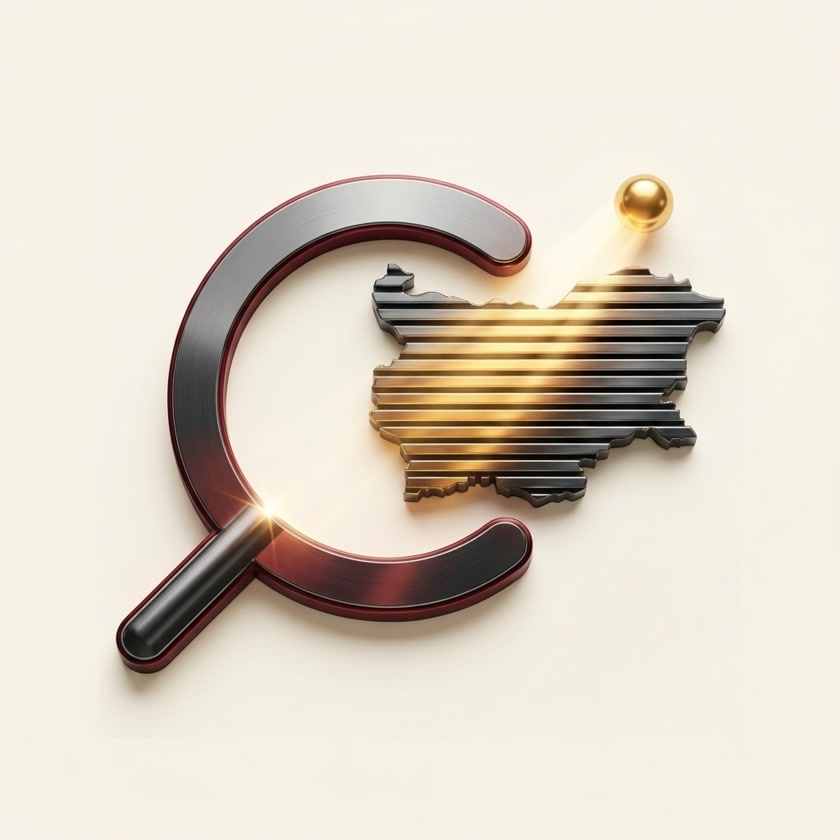
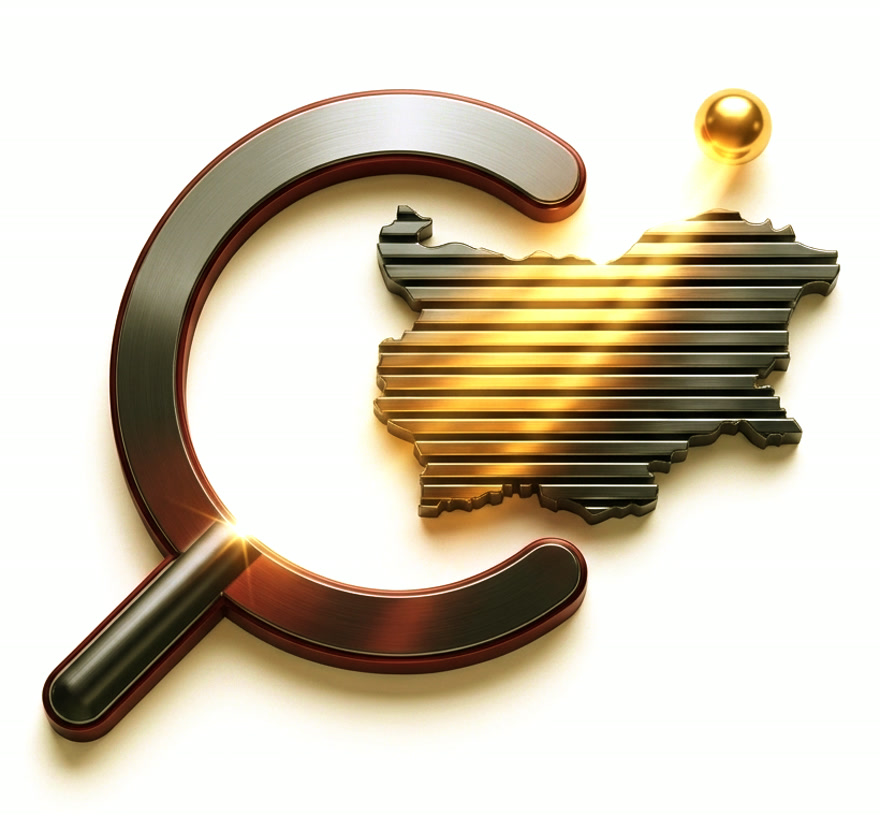
fix(hero): pure #FFFFFF white-level normalization (zero yellow halo) and enlarge hero emblem to 490px

diff --git a/docs/index.html b/docs/index.html
@@ -6,7 +6,7 @@
         window.location.replace('https://nasvetlo.website' + p + window.location.search + window.location.hash);
       }
     })();
-  </script><link rel="preconnect" href="https://fonts.googleapis.com"><link rel="preconnect" href="https://fonts.gstatic.com" crossorigin><link href="https://fonts.googleapis.com/css2?family=IBM+Plex+Mono:wght@400;500;600;700&family=IBM+Plex+Sans:wght@400;500;600;700&family=Newsreader:ital,wght@0,600;0,700;1,600&display=swap" rel="stylesheet"><link rel="stylesheet" href="sigma3/styles.css?v=20261120g"></head> <body> <header class="topbar"> <div class="topbar-inner"> <div class="topbar-left"> <a href="#top" class="brand-logo" aria-label="NAsvetlo — Граждански одит · CC-BY 4.0"> <img src="/logo-icon.png" alt="" aria-hidden="true" width="38" height="38" class="brand-logo-icon"> <div class="brand-logo-text"> <span class="brand-logo-name">NAsvetlo</span> <span class="brand-logo-meta">Граждански одит · CC-BY 4.0</span> </div> </a> </div> <div class="topbar-center"> <button type="button" class="btn-cmd-center" id="openCmdPaletteBtn" title="Бързо глобално търсене (Ctrl+K)"> <span class="cmd-search-icon" aria-hidden="true">⌕</span> <span class="cmd-search-label">Търсене (22 343)</span> <kbd>Ctrl K</kbd> </button> </div> <div class="topbar-right"> <button type="button" class="btn topbar-btn-ai" id="quickOpenOracleBtn">AI Асистент</button> <button type="button" class="btn topbar-btn" id="densityToggleBtn" title="Превключи между компактен одиторски изглед и презентационен изглед">Одиторски изглед</button> <button type="button" class="btn topbar-btn" id="themeToggleBtn" title="Смени светъл / тъмен режим">Тъмен режим</button> </div> </div> </header> <div class="info-subbar"> <div class="info-subbar-inner"> <div class="info-subbar-meta"> <span class="civic-positioning-tag">Независима гражданска платформа върху отворените данни (CC-BY 4.0) на МИДТ / СИГМА 2.0</span> <span class="info-subbar-sep" aria-hidden="true">·</span> <a class="info-subbar-sync" id="syncSubtitle" href="data/sigma3_judicial_6.json" target="_blank" rel="noopener" title="Преглед на актуалния JSON лог на последната синхронизация">Синхронизация: 2026-11-20</a> </div> <div class="info-subbar-links"> <button type="button" class="subbar-link-btn" id="quickOpenProposalBtn">Архитектура &amp; Методология</button> <a class="subbar-link" href="data/SIGMA_2_0_ALL_OFFICIALS_571.csv" download>CSV</a> <a class="subbar-link" href="https://sigma.midt.bg" target="_blank" rel="noopener">СИГМА 2.0 ↗</a> </div> </div> </div> <main class="container">  <!-- EXECUTIVE SOVEREIGN HERO (SIGMA.MIDT.BG SWISS EDITORIAL ARCHITECTURE) --><section class="hero" id="top"> <div class="hero-top-split hero-section"> <div class="hero-editorial-col"> <div class="hero-kicker">Публичен финансов и съдебен одит · 2020–2026 г.</div> <h1>Къде отиват <em>€53,22 млрд.</em> от обществените поръчки в България?</h1> <p class="hero-lead">
+  </script><link rel="preconnect" href="https://fonts.googleapis.com"><link rel="preconnect" href="https://fonts.gstatic.com" crossorigin><link href="https://fonts.googleapis.com/css2?family=IBM+Plex+Mono:wght@400;500;600;700&family=IBM+Plex+Sans:wght@400;500;600;700&family=Newsreader:ital,wght@0,600;0,700;1,600&display=swap" rel="stylesheet"><link rel="stylesheet" href="sigma3/styles.css?v=20261120h"></head> <body> <header class="topbar"> <div class="topbar-inner"> <div class="topbar-left"> <a href="#top" class="brand-logo" aria-label="NAsvetlo — Граждански одит · CC-BY 4.0"> <img src="/logo-icon.png" alt="" aria-hidden="true" width="38" height="38" class="brand-logo-icon"> <div class="brand-logo-text"> <span class="brand-logo-name">NAsvetlo</span> <span class="brand-logo-meta">Граждански одит · CC-BY 4.0</span> </div> </a> </div> <div class="topbar-center"> <button type="button" class="btn-cmd-center" id="openCmdPaletteBtn" title="Бързо глобално търсене (Ctrl+K)"> <span class="cmd-search-icon" aria-hidden="true">⌕</span> <span class="cmd-search-label">Търсене (22 343)</span> <kbd>Ctrl K</kbd> </button> </div> <div class="topbar-right"> <button type="button" class="btn topbar-btn-ai" id="quickOpenOracleBtn">AI Асистент</button> <button type="button" class="btn topbar-btn" id="densityToggleBtn" title="Превключи между компактен одиторски изглед и презентационен изглед">Одиторски изглед</button> <button type="button" class="btn topbar-btn" id="themeToggleBtn" title="Смени светъл / тъмен режим">Тъмен режим</button> </div> </div> </header> <div class="info-subbar"> <div class="info-subbar-inner"> <div class="info-subbar-meta"> <span class="civic-positioning-tag">Независима гражданска платформа върху отворените данни (CC-BY 4.0) на МИДТ / СИГМА 2.0</span> <span class="info-subbar-sep" aria-hidden="true">·</span> <a class="info-subbar-sync" id="syncSubtitle" href="data/sigma3_judicial_6.json" target="_blank" rel="noopener" title="Преглед на актуалния JSON лог на последната синхронизация">Синхронизация: 2026-11-20</a> </div> <div class="info-subbar-links"> <button type="button" class="subbar-link-btn" id="quickOpenProposalBtn">Архитектура &amp; Методология</button> <a class="subbar-link" href="data/SIGMA_2_0_ALL_OFFICIALS_571.csv" download>CSV</a> <a class="subbar-link" href="https://sigma.midt.bg" target="_blank" rel="noopener">СИГМА 2.0 ↗</a> </div> </div> </div> <main class="container">  <!-- EXECUTIVE SOVEREIGN HERO (SIGMA.MIDT.BG SWISS EDITORIAL ARCHITECTURE) --><section class="hero" id="top"> <div class="hero-top-split hero-section"> <div class="hero-editorial-col"> <div class="hero-kicker">Публичен финансов и съдебен одит · 2020–2026 г.</div> <h1>Къде отиват <em>€53,22 млрд.</em> от обществените поръчки в България?</h1> <p class="hero-lead">
 Проследете как държавните институции и общините разходват публичния ресурс във всички сектори — с пълно разбиване на <strong>3 427 ДЗЗД консорциума (+€1,92 млрд.)</strong>, <strong>3 035 декларации пред Сметната палата</strong>, <strong>+€1,29 млрд. анекси</strong> и живи съдебни актове от <strong>ЕПЕП, ВАС, АДФИ и КЗК</strong>. Зад всяко число стои конкретен договор или съдебен акт.
 </p> <div class="hero-search-box"> <div class="hero-search-row"> <span class="smart-search-prompt" aria-hidden="true">›</span> <input id="heroSearchInput" type="search" aria-label="Глобална проверка" placeholder="Институция, компания, ЕИК, политик, ДЗЗД или град (напр. Бургас, АПИ, 103267194)…"> <button class="btn btn-dark" id="heroSearchBtn" type="button">Намери</button> <button class="btn btn-oracle-solid" id="heroAskOracleBtn" type="button">Питай AI</button> </div> <div class="quick-cities"> <span>Бърз срез:</span> <button class="city-chip" data-quick="Благоевград">Благоевград</button> <button class="city-chip" data-quick="Хасково">Хасково</button> <button class="city-chip" data-quick="Бургас">Бургас</button> <button class="city-chip" data-quick="Варна">Варна</button> <button class="city-chip" data-quick="Пловдив">Пловдив</button> <button class="city-chip" data-quick="Стара Загора">Стара Загора</button> <button class="city-chip" data-quick="Народно събрание">Депутати (57)</button> <button class="city-chip" data-quick="ДАНС">ДАНС / ДАТО</button> <button class="city-chip chip-accent" data-jump-tab="atlas">Карта 28 области</button> <button class="city-chip chip-accent" data-jump-tab="forensics7">7 Кримин. радара</button> <button class="city-chip chip-accent" data-jump-tab="judicial6">Съдебен радар (АДФИ/КЗК)</button> </div> </div> </div> <div class="hero-emblem-stage" aria-hidden="true"> <div class="hero-emblem-visual" role="img" aria-label="NAsvetlo — Титаниево-червена лупа и златен прожектор върху картата на България"></div> </div> </div> <!-- 6-STAGE FORENSIC TOTALS STRIP (SIGMA.MIDT.BG EDITORIAL HAIRLINE GRID) --> <div class="funnel-box"> <div class="funnel-head"> <h2 class="funnel-title">Национална макрорамка и фуния на риска (клик върху показател за срез)</h2> <span class="meta-date" id="asOfChip">Данни към: 2026-11-20</span> </div> <div class="funnel-strip-grid"> <div class="funnel-step" data-jump-tab="authorities"> <div class="funnel-step-num" id="f1Val">€53,22 млрд.</div> <div> <div class="funnel-step-lbl">1. Всички поръчки (2020–2026)</div> <div class="funnel-step-sub" id="f1Sub">206 907 договора · 4 344 възложители · 17 428 фирми</div> </div> </div> <div class="funnel-step warn" data-jump-tab="cartels"> <div class="funnel-step-num" id="f2Val">€18,50 млрд.</div> <div> <div class="funnel-step-lbl">2. Една оферта / Пряко</div> <div class="funnel-step-sub" id="f2Sub">40,7% с 1 оферта · €5,92 млрд. неконкурентни</div> </div> </div> <div class="funnel-step" data-jump-filter="all"> <div class="funnel-step-num">571 лица</div> <div> <div class="funnel-step-lbl">3. Свързани лица (СИГМА)</div> <div class="funnel-step-sub">€180,8 млн. в мандата · €2,225 млрд. общо</div> </div> </div> <div class="funnel-step danger" data-jump-filter="own"> <div class="funnel-step-num">53 лица</div> <div> <div class="funnel-step-lbl">4. Самовъзлагане</div> <div class="funnel-step-sub">Договори от собствената институция</div> </div> </div> <div class="funnel-step plum" data-jump-tab="deep"> <div class="funnel-step-num" id="heroDeepNum">+€1,92 млрд.</div> <div> <div class="funnel-step-lbl">5. Скрити ДЗЗД + XML</div> <div class="funnel-step-sub" id="heroDeepSub">338 скрити ДЗЗД на 76 лица + 16 нови лица</div> </div> </div> <div class="funnel-step navy" data-jump-tab="cartels"> <div class="funnel-step-num" id="heroCartelNum">MAD 0,0122</div> <div> <div class="funnel-step-lbl">6. Картели и Бенфорд</div> <div class="funnel-step-sub" id="heroCartelSub">60 ДЗЗД двойки · Топ 1% държат 48,3% (Gini 0,91)</div> </div> </div> </div> </div> </section> <!-- PUBLIC AUDIT SESSION COUNTER + TOP 50 CONCENTRATION HIERARCHY TRIGGER --> <div class="hof-trigger-wrap"> <div class="truth-counter" id="truthCounter" aria-live="polite"> <span class="truth-live-dot" aria-hidden="true"></span> <div class="truth-counter-text"> <span class="truth-counter-label">ПУБЛИЧНИ ОДИТНИ СЕСИИ И ИНСПЕКЦИИ</span> <span class="truth-counter-sub">Верифицирани прегледи на националния регистър</span> </div> <span class="truth-counter-num" id="visitorCountVal">1 420</span> </div> <button type="button" class="hof-trigger" id="hofOpenBtn" aria-haspopup="dialog" aria-controls="hofModal"> <span class="hof-trigger-inner"> <span class="hof-trigger-left"> <span class="hof-trigger-badge">ТОП 50 · КОНЦЕНТРАЦИЯ</span> <span class="hof-trigger-label">ЙЕРАРХИЯ ПО ФИНАНСОВ ОБЕМ И РИСК</span> </span> <span class="hof-trigger-meta" id="hofTriggerTeaser">Топ 50 по официални данни на СИГМА 2.0 и скрити ДЗЗД консорциуми</span> <span class="hof-trigger-cta">ОТВОРИ &rarr;</span> </span> </button> </div> <!-- PRIMARY 12-MODULE NAVIGATION TABS --><nav class="tabs" id="mainTabs" role="tablist" aria-label="Аналитични модули на NAsvetlo"> <button class="tab-btn active" data-tab="dashboard">Команден пулт</button> <button class="tab-btn" data-tab="atlas">Атлас 28 области</button> <button class="tab-btn" data-tab="directory">Свързани лица (571)</button> <button class="tab-btn" data-tab="deep">Отвъд СИГМА 2.0 (ДЗЗД/XML)</button> <button class="tab-btn tab-btn-forensics" data-tab="forensics7">7 Криминалистични радара</button> <button class="tab-btn tab-btn-judicial" data-tab="judicial6">Съдебен радар (АОП × Съд)</button> <button class="tab-btn" data-tab="cartels">Картели, Бенфорд и HHI</button> <button class="tab-btn" data-tab="authorities">Институции (4 344)</button> <button class="tab-btn" data-tab="companies">Компании и ДЗЗД (17 428)</button> <button class="tab-btn" data-tab="graph">Мрежов граф (9 типа)</button> <button class="tab-btn tab-btn-oracle" data-tab="oracle">AI Асистент (ORACLE)</button> <button class="tab-btn tab-btn-proposal" data-tab="proposal">Архитектура &amp; Методология</button> </nav> <!-- =================================================================== --><!-- TAB 1: MACRO COMMAND DASHBOARD --><!-- =================================================================== --><section class="tab-panel active" id="tab-dashboard"> <!-- 83-Month Time Series + Annual Breakdown --> <div class="panel-box" style="margin-bottom:18px;"> <div class="chart-head"> <div> <h2 class="chart-title">Динамика на обществените поръчки в България (2020–2026 г.)</h2> <p class="chart-caption" style="margin-bottom:0;" id="trendsCaption">83 месечни периода от ЦАИС ЕОП · Общо €53,22 млрд. · Рекорден месец: февруари 2026 г. (€2,65 млрд.)</p> </div> <div class="pill-row" id="trendModePills"> <button class="pill active" data-trend-mode="months">Месечен пулс (83 мес.)</button> <button class="pill" data-trend-mode="years">Годишен сравнителен (7 г.)</button> </div> </div> <div id="trendChartHost" class="trend-chart-host"></div> <div class="trend-years-strip" id="trendYearsStrip"></div> </div> <!-- Interactive Top 20 Sankey Money Flows + CPV Sectors --> <div class="two-col-wide" style="margin-bottom:18px;"> <article class="panel-box"> <div class="chart-head"> <h3 style="margin:0;border:none;padding:0;">Парични потоци: Топ 20 двойки Институция &rarr; Изпълнител</h3> <span class="meta-date">Посочи поток · Клик за детайли</span> </div> <p class="chart-caption">Интерактивна диаграма на договорните потоци по реалните данни от ЦАИС ЕОП. Акцентните ленти маркират консорциуми (ДЗЗД).</p> <div class="sankey-wrap" id="sankeyHost"></div> <div class="sankey-readout" id="sankeyReadout">Посочете поток или институция, за да видите точната сума и брой договори.</div> </article> <article class="panel-box"> <div class="chart-head"> <h3 style="margin:0;border:none;padding:0;">CPV сектори и дял на ДЗЗД консорциумите</h3> <span class="meta-date">17 428 изпълнители</span> </div> <p class="chart-caption">В строителството (CPV 45, €21,24 млрд.) близо 40% (€8,31 млрд.) минават през ДЗЗД обединения, невидими при директно ЕИК обвързване.</p> <div id="cpvSectorsHost"></div> </article> </div> <!-- 2x2 Classic Citizen Charts (Sector Funding, 571 Donut, Top 10, Competition Gauges) --> <section class="charts-grid" aria-label="Ключови диаграми"> <article class="chart-card"> <div class="chart-head"> <h2 class="chart-title">Къде отиват парите на свързаните лица в мандата</h2> <span class="meta-date">Клик за филтър</span> </div> <p class="chart-caption">77,2% от стойността в декларирания период минават през общини и общински съвети.</p> <div id="chartSectorBars"></div> </article> <article class="chart-card"> <div class="chart-head"> <h2 class="chart-title">Профил на риска на всички 571 лица</h2> <span class="meta-date">Клик върху сегмент</span> </div> <p class="chart-caption">Разпределение по директен конфликт със собствената институция, мандатни договори и членове на съвети.</p> <div id="chartDonutWrap" class="donut-layout"></div> </article> <article class="chart-card"> <div class="chart-head"> <h2 class="chart-title">Топ 10 най-големи случая в периода на мандата</h2> <span class="meta-date">Клик за досие</span> </div> <p class="chart-caption">Червените ленти отбелязват лица, чиито фирми печелят от собствената им институция.</p> <div id="chartTop10Bars"></div> </article> <article class="chart-card"> <div class="chart-head"> <h2 class="chart-title">Национална конкуренция и единични оферти</h2> <span class="meta-date">Национален срез · АОП</span> </div> <p class="chart-caption">Дял на поръчките с 1 оферта и неконкурентните процедури върху 206 907 договора.</p> <div id="chartCompetitionGauge"></div> </article> </section> <!-- Live Single-Offer Mega-Contracts Feed with Direct Live JSON Inspection --> <div class="panel-box"> <div class="chart-head"> <div> <h3 style="margin:0;border:none;padding:0;">Жива криминалистична емисия: Мега-договори с 1 оферта</h3> <p class="chart-caption" style="margin-bottom:0;">Кликнете <strong>„Удостовери в реално време“</strong> за директна проверка в официалния регистър ЦАИС ЕОП / СИГМА (анекси, оферти, CPV кохорта, обособени позиции).</p> </div> <div class="pill-row" id="liveContractsPills"> <button class="pill active" data-lc-mode="top">Топ 10 най-големи с 1 оферта</button> <button class="pill" data-lc-mode="recent">10 най-нови (ноември 2026)</button> </div> </div> <div class="table-wrap" style="border:none;margin-top:10px;"> <table> <thead> <tr> <th>№</th> <th>Дата / УНП</th> <th>Предмет на поръчката и възложител</th> <th>Изпълнител</th> <th class="num">Стойност (€)</th> <th>Жива проверка</th> </tr> </thead> <tbody id="liveSingleOfferTbody"></tbody> </table> </div> </div> </section> <!-- =================================================================== --><!-- TAB 2: 28-OBLAST INTERACTIVE CARTOGRAPHIC RISK ATLAS --><!-- =================================================================== --><section class="tab-panel" id="tab-atlas" hidden> <div class="editorial-note"> <div> <strong>Интерактивен 28-областен атлас (GISCO NUTS 2021 + ЦАИС ЕОП + Сметна палата + ДЗЗД):</strong>
 За разлика от СИГМА 2.0, която визуализира единствено общите разходи по области, <strong>NAsvetlo</strong> наслагва върху всяка област свързаните длъжностни лица, случаите на самовъзлагане, скритите ДЗЗД обеми и съставен индекс на риска.

diff --git a/src/styles/base/_core.scss b/src/styles/base/_core.scss
@@ -444,31 +444,30 @@ code {
 }
 .hero-emblem-stage {
   flex: 0 0 auto;
-  width: clamp(300px, 31vw, 440px);
+  width: clamp(340px, 34vw, 490px);
   display: flex;
   align-items: center;
   justify-content: center;
   pointer-events: none;
   user-select: none;
-  margin: -18px -10px -18px 0;
+  margin: -10px 0;
 }
 .hero-emblem-visual {
   width: 100%;
-  aspect-ratio: 1 / 1;
-  background-image: url('./hero-emblem-light.jpg');
+  aspect-ratio: 880 / 816;
+  background-image: url('./hero-emblem-light.jpg?v=20261120h');
   background-repeat: no-repeat;
   background-position: center center;
   background-size: contain;
   mix-blend-mode: multiply;
-  filter: contrast(1.04) saturate(1.06);
-  -webkit-mask-image: radial-gradient(circle at center, #000 58%, transparent 88%);
-  mask-image: radial-gradient(circle at center, #000 58%, transparent 88%);
 }
 [data-theme="dark"] .hero-emblem-visual,
 .dark .hero-emblem-visual {
-  background-image: url('./hero-emblem-dark.jpg');
+  aspect-ratio: 1 / 1;
+  background-image: url('./hero-emblem-dark.jpg?v=20261120h');
   mix-blend-mode: lighten;
-  filter: none;
+  -webkit-mask-image: radial-gradient(circle at center, #000 58%, transparent 88%);
+  mask-image: radial-gradient(circle at center, #000 58%, transparent 88%);
 }
 @media (max-width: 960px) {
   .hero-top-split {

diff --git a/docs/sigma3/styles.css b/docs/sigma3/styles.css
@@ -494,33 +494,32 @@ code {
 
 .hero-emblem-stage {
   flex: 0 0 auto;
-  width: clamp(300px, 31vw, 440px);
+  width: clamp(340px, 34vw, 490px);
   display: flex;
   align-items: center;
   justify-content: center;
   pointer-events: none;
   user-select: none;
-  margin: -18px -10px -18px 0;
+  margin: -10px 0;
 }
 
 .hero-emblem-visual {
   width: 100%;
-  aspect-ratio: 1/1;
-  background-image: url("./hero-emblem-light.jpg");
+  aspect-ratio: 880/816;
+  background-image: url("./hero-emblem-light.jpg?v=20261120h");
   background-repeat: no-repeat;
   background-position: center center;
   background-size: contain;
   mix-blend-mode: multiply;
-  filter: contrast(1.04) saturate(1.06);
-  -webkit-mask-image: radial-gradient(circle at center, #000 58%, transparent 88%);
-  mask-image: radial-gradient(circle at center, #000 58%, transparent 88%);
 }
 
 [data-theme=dark] .hero-emblem-visual,
 .dark .hero-emblem-visual {
-  background-image: url("./hero-emblem-dark.jpg");
+  aspect-ratio: 1/1;
+  background-image: url("./hero-emblem-dark.jpg?v=20261120h");
   mix-blend-mode: lighten;
-  filter: none;
+  -webkit-mask-image: radial-gradient(circle at center, #000 58%, transparent 88%);
+  mask-image: radial-gradient(circle at center, #000 58%, transparent 88%);
 }
 
 @media (max-width: 960px) {
